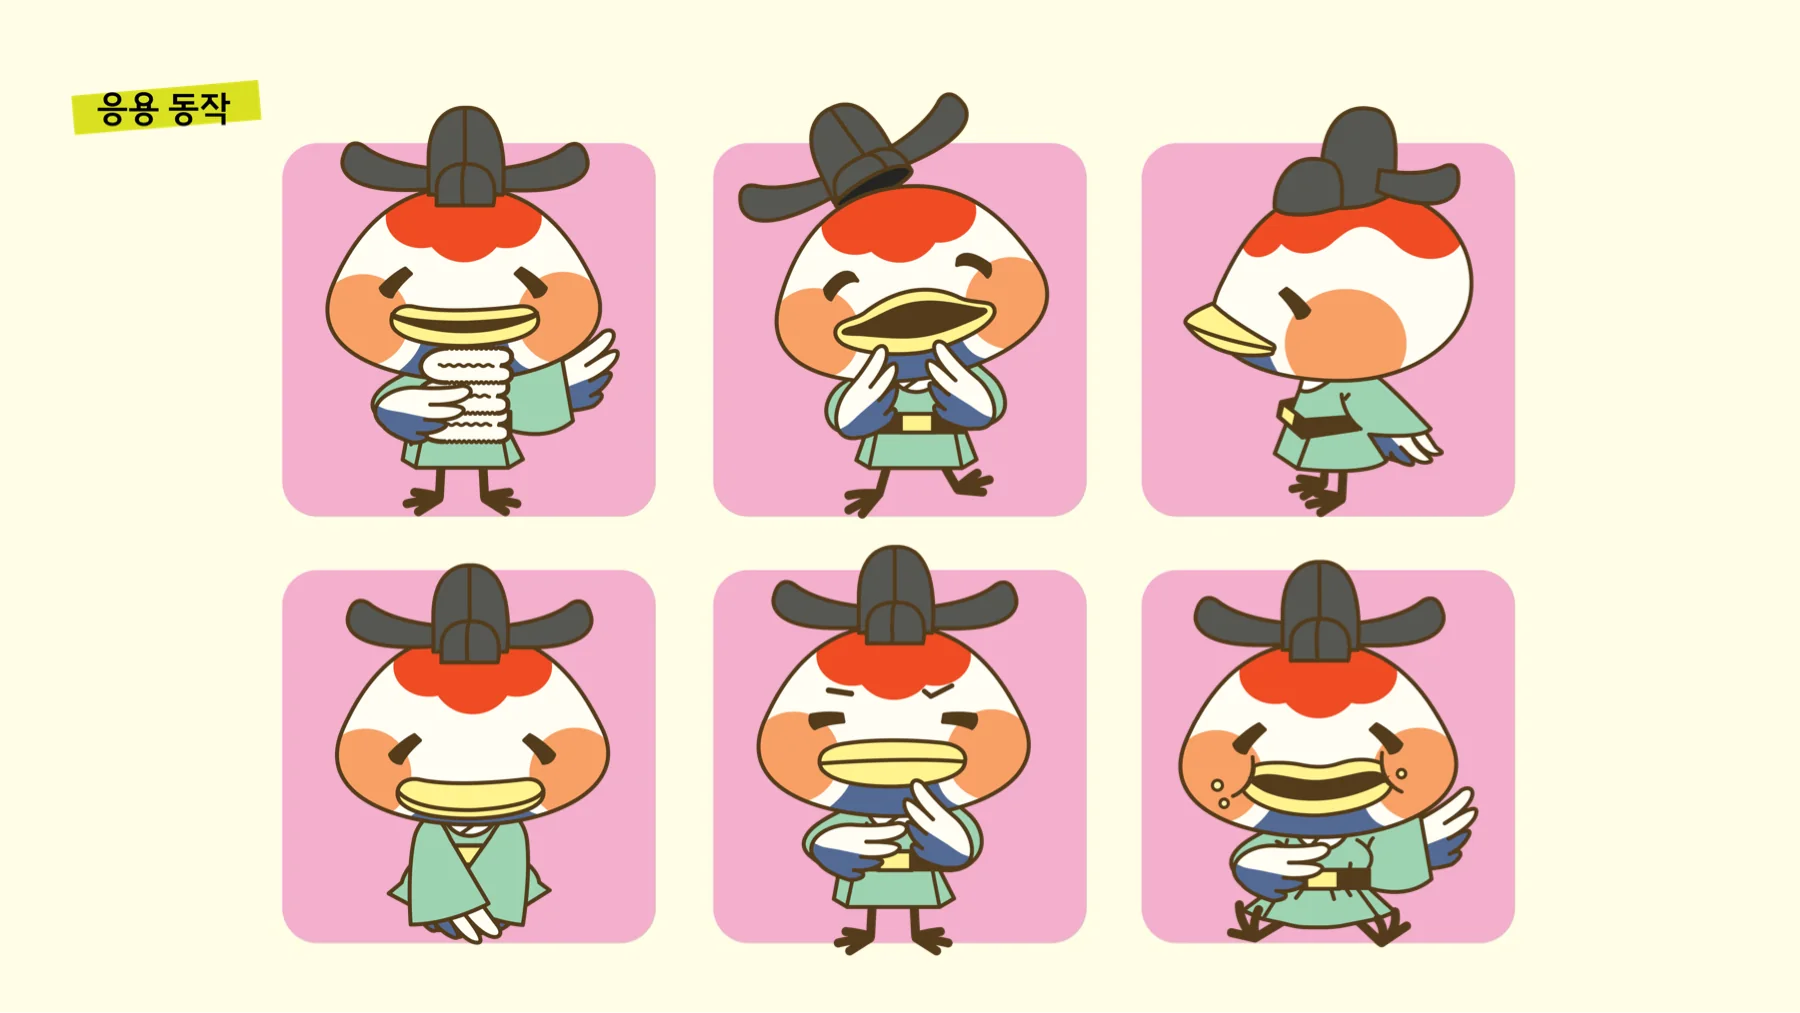
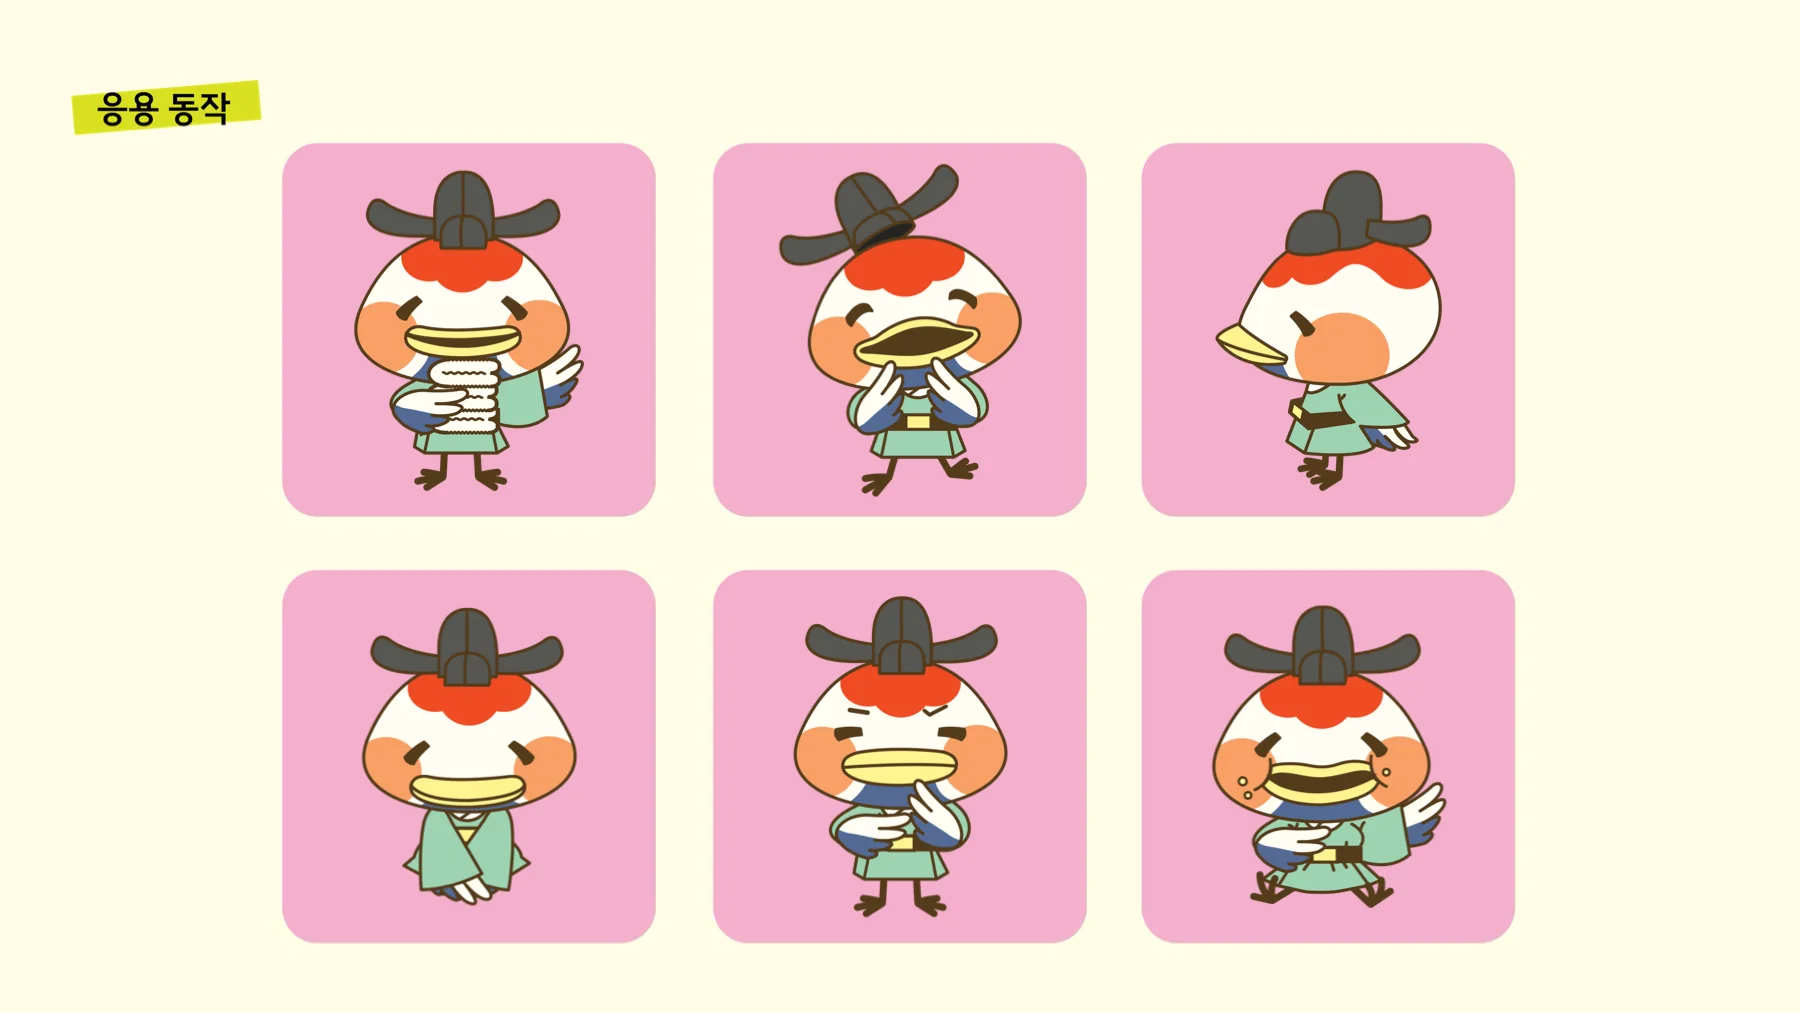
응용 동작 캐릭터를 타일 안에 맞춤, 캐릭터 전환 시 맨 위로 바로 이동(만화 등장 효과 유지)

diff --git a/index.html b/index.html
@@ -372,7 +372,7 @@
 </button>
 
 <script>
-const IMG = {"L1": "img/L1.webp", "L10": "img/L10.webp", "L11": "img/L11.webp", "L12": "img/L12.webp", "L13": "img/L13.webp", "L14": "img/L14.webp", "L15": "img/L15.webp", "L16": "img/L16.webp", "L17": "img/L17.webp", "L18": "img/L18.webp", "L19": "img/L19.webp", "L2": "img/L2.webp", "L20": "img/L20.webp", "L21": "img/L21.webp", "L22": "img/L22.webp", "L23": "img/L23.webp", "L24": "img/L24.webp", "L25": "img/L25.webp", "L26": "img/L26.webp", "L27": "img/L27.webp", "L28": "img/L28.webp", "L29": "img/L29.webp", "L3": "img/L3.webp", "L30": "img/L30.webp", "L31": "img/L31.webp", "L32": "img/L32.webp", "L4": "img/L4.webp", "L5": "img/L5.webp", "L6": "img/L6.webp", "L7": "img/L7.webp", "L8": "img/L8.webp", "L9": "img/L9.webp", "blue/bg01": "img/blue/bg01.webp", "blue/bg03": "img/blue/bg03.webp", "blue/bg04": "img/blue/bg04.webp", "blue/bg06": "img/blue/bg06.webp", "blue/bg07": "img/blue/bg07.webp", "blue/bg08": "img/blue/bg08.webp", "blue/rel_blue": "img/blue/rel_blue.webp", "blue/rel_duck": "img/blue/rel_duck.webp", "blue/rel_lotus": "img/blue/rel_lotus.webp", "blue/rel_owl": "img/blue/rel_owl.webp", "blue/star": "img/blue/star.webp", "blue/turn_title": "img/blue/turn_title.webp", "blue/x1": "img/blue/x1.webp", "blue/x10": "img/blue/x10.webp", "blue/x11": "img/blue/x11.webp", "blue/x12_04": "img/blue/x12_04.webp", "blue/x12_06": "img/blue/x12_06.webp", "blue/x12_07": "img/blue/x12_07.webp", "blue/x14": "img/blue/x14.webp", "blue/x16": "img/blue/x16.webp", "blue/x17": "img/blue/x17.webp", "blue/x19": "img/blue/x19.webp", "blue/x2": "img/blue/x2.webp", "blue/x20": "img/blue/x20.webp", "blue/x3": "img/blue/x3.webp", "blue/x4": "img/blue/x4.webp", "blue/x5_04": "img/blue/x5_04.webp", "blue/x5_05": "img/blue/x5_05.webp", "blue/x5_06": "img/blue/x5_06.webp", "blue/x5_08": "img/blue/x5_08.webp", "blue/x6": "img/blue/x6.webp", "blue/x7": "img/blue/x7.webp", "blue/x8": "img/blue/x8.webp", "blue/x8b": "img/blue/x8b.webp", "blue/x9": "img/blue/x9.webp", "comic/blue_1": "img/comic/blue_1.webp", "comic/blue_2": "img/comic/blue_2.webp", "comic/blue_3": "img/comic/blue_3.webp", "comic/blue_4": "img/comic/blue_4.webp", "comic/blue_5": "img/comic/blue_5.webp", "comic/blue_6": "img/comic/blue_6.webp", "comic/duck_1": "img/comic/duck_1.webp", "comic/duck_2": "img/comic/duck_2.webp", "comic/duck_3": "img/comic/duck_3.webp", "comic/duck_4": "img/comic/duck_4.webp", "comic/duck_5": "img/comic/duck_5.webp", "comic/duck_6": "img/comic/duck_6.webp", "comic/lotus_1": "img/comic/lotus_1.webp", "comic/lotus_2": "img/comic/lotus_2.webp", "comic/lotus_3": "img/comic/lotus_3.webp", "comic/lotus_4": "img/comic/lotus_4.webp", "comic/lotus_5": "img/comic/lotus_5.webp", "comic/lotus_6": "img/comic/lotus_6.webp", "comic/owl_1": "img/comic/owl_1.webp", "comic/owl_2": "img/comic/owl_2.webp", "comic/owl_3": "img/comic/owl_3.webp", "comic/owl_4": "img/comic/owl_4.webp", "comic/owl_5": "img/comic/owl_5.webp", "comic/owl_6": "img/comic/owl_6.webp", "duck/big": "img/duck/big.webp", "duck/x10": "img/duck/x10.webp", "duck/x11": "img/duck/x11.webp", "duck/x12": "img/duck/x12.webp", "duck/x15": "img/duck/x15.webp", "duck/x16": "img/duck/x16.webp", "duck/x17": "img/duck/x17.webp", "duck/x18": "img/duck/x18.webp", "duck/x19": "img/duck/x19.webp", "duck/x1_02": "img/duck/x1_02.webp", "duck/x20": "img/duck/x20.webp", "duck/x21": "img/duck/x21.webp", "duck/x23_01": "img/duck/x23_01.webp", "duck/x23_03": "img/duck/x23_03.webp", "duck/x23_04": "img/duck/x23_04.webp", "duck/x28": "img/duck/x28.webp", "duck/x2_02": "img/duck/x2_02.webp", "duck/x4": "img/duck/x4.webp", "duck/x6": "img/duck/x6.webp", "duck/x7": "img/duck/x7.webp", "duck/x9": "img/duck/x9.webp", "duck/xp": "img/duck/xp.webp", "lotus/big": "img/lotus/big.webp", "lotus/x1": "img/lotus/x1.webp", "lotus/x10": "img/lotus/x10.webp", "lotus/x11": "img/lotus/x11.webp", "lotus/x117": "img/lotus/x117.webp", "lotus/x12": "img/lotus/x12.webp", "lotus/x13": "img/lotus/x13.webp", "lotus/x14": "img/lotus/x14.webp", "lotus/x15": "img/lotus/x15.webp", "lotus/x16": "img/lotus/x16.webp", "lotus/x2": "img/lotus/x2.webp", "lotus/x25": "img/lotus/x25.webp", "lotus/x3": "img/lotus/x3.webp", "lotus/x4": "img/lotus/x4.webp", "lotus/x5": "img/lotus/x5.webp", "lotus/x6": "img/lotus/x6.webp", "lotus/x7_01": "img/lotus/x7_01.webp", "lotus/x7_03": "img/lotus/x7_03.webp", "lotus/x7_04": "img/lotus/x7_04.webp", "lotus/x8": "img/lotus/x8.webp", "lotus/xp": "img/lotus/xp.webp", "lotus/xp_copy": "img/lotus/xp_copy.webp", "map/bg_a": "img/map/bg_a.webp", "map/bg_b": "img/map/bg_b.webp", "map/bg_c": "img/map/bg_c.webp", "map/btn_12": "img/map/btn_12.webp", "map/btn_stamp": "img/map/btn_stamp.webp", "map/bubble/bonggoksa": "img/map/bubble/bonggoksa.webp", "map/bubble/bonggoksa_up": "img/map/bubble/bonggoksa_up.webp", "map/bubble/flower": "img/map/bubble/flower.webp", "map/bubble/gokgyo": "img/map/bubble/gokgyo.webp", "map/bubble/gongseri": "img/map/bubble/gongseri.webp", "map/bubble/hyeonchungsa": "img/map/bubble/hyeonchungsa.webp", "map/bubble/jijunghae": "img/map/bubble/jijunghae.webp", "map/bubble/museum": "img/map/bubble/museum.webp", "map/bubble/oeam": "img/map/bubble/oeam.webp", "map/bubble/oeam_up": "img/map/bubble/oeam_up.webp", "map/bubble/pinnacle": "img/map/bubble/pinnacle.webp", "map/bubble/sinjeongho": "img/map/bubble/sinjeongho.webp", "map/bubble/spa": "img/map/bubble/spa.webp", "map/bubble/yeonginsan": "img/map/bubble/yeonginsan.webp", "map/card_12": "img/map/card_12.webp", "map/card_stamp": "img/map/card_stamp.webp", "map/cloud": "img/map/cloud.webp", "map/f15": "img/map/f15.webp", "map/f16": "img/map/f16.webp", "map/f17": "img/map/f17.webp", "map/f18": "img/map/f18.webp", "map/line": "img/map/line.webp", "map/map": "img/map/map.webp", "map/p_bonggoksa": "img/map/p_bonggoksa.webp", "map/p_dogo": "img/map/p_dogo.webp", "map/p_flower": "img/map/p_flower.webp", "map/p_gokgyo": "img/map/p_gokgyo.webp", "map/p_gongseri": "img/map/p_gongseri.webp", "map/p_hyeonchungsa": "img/map/p_hyeonchungsa.webp", "map/p_jijunghae": "img/map/p_jijunghae.webp", "map/p_market": "img/map/p_market.webp", "map/p_museum": "img/map/p_museum.webp", "map/p_oeam": "img/map/p_oeam.webp", "map/p_onyang": "img/map/p_onyang.webp", "map/p_pinnacle": "img/map/p_pinnacle.webp", "map/p_sinjeongho": "img/map/p_sinjeongho.webp", "map/p_spavis": "img/map/p_spavis.webp", "map/p_yeonginsan": "img/map/p_yeonginsan.webp", "map/route": "img/map/route.webp", "owl/big": "img/owl/big.webp", "owl/x1": "img/owl/x1.webp", "owl/x10": "img/owl/x10.webp", "owl/x11": "img/owl/x11.webp", "owl/x13": "img/owl/x13.webp", "owl/x15": "img/owl/x15.webp", "owl/x16": "img/owl/x16.webp", "owl/x17": "img/owl/x17.webp", "owl/x18": "img/owl/x18.webp", "owl/x19_01": "img/owl/x19_01.webp", "owl/x19_03": "img/owl/x19_03.webp", "owl/x19_04": "img/owl/x19_04.webp", "owl/x28": "img/owl/x28.webp", "owl/x3": "img/owl/x3.webp", "owl/x4": "img/owl/x4.webp", "owl/x5": "img/owl/x5.webp", "owl/x6": "img/owl/x6.webp", "owl/x7": "img/owl/x7.webp", "owl/x8": "img/owl/x8.webp", "owl/x9": "img/owl/x9.webp", "owl/xp_copy": "img/owl/xp_copy.webp", "ui/scroll": "img/ui/scroll.webp", "m/blue_0_0": "img/m/blue_0_0.webp", "m/blue_1_1": "img/m/blue_1_1.webp", "m/blue_2_2": "img/m/blue_2_2.webp", "m/blue_3_3": "img/m/blue_3_3.webp", "m/blue_4_4": "img/m/blue_4_4.webp", "m/blue_5_5": "img/m/blue_5_5.webp", "m/blue_6_6": "img/m/blue_6_6.webp", "m/lotus_0_7": "img/m/lotus_0_7.webp", "m/lotus_1_8": "img/m/lotus_1_8.webp", "m/lotus_2_9": "img/m/lotus_2_9.webp", "m/lotus_3_10": "img/m/lotus_3_10.webp", "m/lotus_4_11": "img/m/lotus_4_11.webp", "m/lotus_5_12": "img/m/lotus_5_12.webp", "m/lotus_6_13": "img/m/lotus_6_13.webp", "m/duck_0_14": "img/m/duck_0_14.webp", "m/duck_1_15": "img/m/duck_1_15.webp", "m/duck_2_16": "img/m/duck_2_16.webp", "m/duck_3_17": "img/m/duck_3_17.webp", "m/duck_4_18": "img/m/duck_4_18.webp", "m/duck_5_19": "img/m/duck_5_19.webp", "m/duck_6_20": "img/m/duck_6_20.webp", "m/owl_0_21": "img/m/owl_0_21.webp", "m/owl_1_22": "img/m/owl_1_22.webp", "m/owl_2_23": "img/m/owl_2_23.webp", "m/owl_3_24": "img/m/owl_3_24.webp", "m/owl_4_25": "img/m/owl_4_25.webp", "m/owl_5_26": "img/m/owl_5_26.webp", "m/owl_6_27": "img/m/owl_6_27.webp", "font/jua-sub": "img/jua-sub.woff2"};
+const IMG = {"L1": "img/L1.webp", "L10": "img/L10.webp", "L11": "img/L11.webp", "L12": "img/L12.webp", "L13": "img/L13.webp", "L14": "img/L14.webp", "L15": "img/L15.webp", "L16": "img/L16.webp", "L17": "img/L17.webp", "L18": "img/L18.webp", "L19": "img/L19.webp", "L2": "img/L2.webp", "L20": "img/L20.webp", "L21": "img/L21.webp", "L22": "img/L22.webp", "L23": "img/L23.webp", "L24": "img/L24.webp", "L25": "img/L25.webp", "L26": "img/L26.webp", "L27": "img/L27.webp", "L28": "img/L28.webp", "L29": "img/L29.webp", "L3": "img/L3.webp", "L30": "img/L30.webp", "L31": "img/L31.webp", "L32": "img/L32.webp", "L4": "img/L4.webp", "L5": "img/L5.webp", "L6": "img/L6.webp", "L7": "img/L7.webp", "L8": "img/L8.webp", "L9": "img/L9.webp", "blue/bg01": "img/blue/bg01.webp", "blue/bg03": "img/blue/bg03.webp", "blue/bg04": "img/blue/bg04.webp", "blue/bg06": "img/blue/bg06.webp", "blue/bg07": "img/blue/bg07.webp", "blue/bg08": "img/blue/bg08.webp", "blue/mv_1": "img/blue/mv_1.webp", "blue/mv_2": "img/blue/mv_2.webp", "blue/mv_3": "img/blue/mv_3.webp", "blue/mv_4": "img/blue/mv_4.webp", "blue/mv_5": "img/blue/mv_5.webp", "blue/mv_6": "img/blue/mv_6.webp", "blue/rel_blue": "img/blue/rel_blue.webp", "blue/rel_duck": "img/blue/rel_duck.webp", "blue/rel_lotus": "img/blue/rel_lotus.webp", "blue/rel_owl": "img/blue/rel_owl.webp", "blue/star": "img/blue/star.webp", "blue/turn_title": "img/blue/turn_title.webp", "blue/x1": "img/blue/x1.webp", "blue/x10": "img/blue/x10.webp", "blue/x11": "img/blue/x11.webp", "blue/x12_04": "img/blue/x12_04.webp", "blue/x12_06": "img/blue/x12_06.webp", "blue/x12_07": "img/blue/x12_07.webp", "blue/x14": "img/blue/x14.webp", "blue/x16": "img/blue/x16.webp", "blue/x17": "img/blue/x17.webp", "blue/x19": "img/blue/x19.webp", "blue/x2": "img/blue/x2.webp", "blue/x20": "img/blue/x20.webp", "blue/x3": "img/blue/x3.webp", "blue/x4": "img/blue/x4.webp", "blue/x5_04": "img/blue/x5_04.webp", "blue/x5_05": "img/blue/x5_05.webp", "blue/x5_06": "img/blue/x5_06.webp", "blue/x5_08": "img/blue/x5_08.webp", "blue/x6": "img/blue/x6.webp", "blue/x7": "img/blue/x7.webp", "blue/x8": "img/blue/x8.webp", "blue/x8b": "img/blue/x8b.webp", "blue/x9": "img/blue/x9.webp", "comic/blue_1": "img/comic/blue_1.webp", "comic/blue_2": "img/comic/blue_2.webp", "comic/blue_3": "img/comic/blue_3.webp", "comic/blue_4": "img/comic/blue_4.webp", "comic/blue_5": "img/comic/blue_5.webp", "comic/blue_6": "img/comic/blue_6.webp", "comic/duck_1": "img/comic/duck_1.webp", "comic/duck_2": "img/comic/duck_2.webp", "comic/duck_3": "img/comic/duck_3.webp", "comic/duck_4": "img/comic/duck_4.webp", "comic/duck_5": "img/comic/duck_5.webp", "comic/duck_6": "img/comic/duck_6.webp", "comic/lotus_1": "img/comic/lotus_1.webp", "comic/lotus_2": "img/comic/lotus_2.webp", "comic/lotus_3": "img/comic/lotus_3.webp", "comic/lotus_4": "img/comic/lotus_4.webp", "comic/lotus_5": "img/comic/lotus_5.webp", "comic/lotus_6": "img/comic/lotus_6.webp", "comic/owl_1": "img/comic/owl_1.webp", "comic/owl_2": "img/comic/owl_2.webp", "comic/owl_3": "img/comic/owl_3.webp", "comic/owl_4": "img/comic/owl_4.webp", "comic/owl_5": "img/comic/owl_5.webp", "comic/owl_6": "img/comic/owl_6.webp", "duck/big": "img/duck/big.webp", "duck/mv_1": "img/duck/mv_1.webp", "duck/mv_2": "img/duck/mv_2.webp", "duck/mv_3": "img/duck/mv_3.webp", "duck/mv_4": "img/duck/mv_4.webp", "duck/mv_5": "img/duck/mv_5.webp", "duck/mv_6": "img/duck/mv_6.webp", "duck/x10": "img/duck/x10.webp", "duck/x11": "img/duck/x11.webp", "duck/x12": "img/duck/x12.webp", "duck/x15": "img/duck/x15.webp", "duck/x16": "img/duck/x16.webp", "duck/x17": "img/duck/x17.webp", "duck/x18": "img/duck/x18.webp", "duck/x19": "img/duck/x19.webp", "duck/x1_02": "img/duck/x1_02.webp", "duck/x20": "img/duck/x20.webp", "duck/x21": "img/duck/x21.webp", "duck/x23_01": "img/duck/x23_01.webp", "duck/x23_03": "img/duck/x23_03.webp", "duck/x23_04": "img/duck/x23_04.webp", "duck/x28": "img/duck/x28.webp", "duck/x2_02": "img/duck/x2_02.webp", "duck/x4": "img/duck/x4.webp", "duck/x6": "img/duck/x6.webp", "duck/x7": "img/duck/x7.webp", "duck/x9": "img/duck/x9.webp", "duck/xp": "img/duck/xp.webp", "lotus/big": "img/lotus/big.webp", "lotus/mv_1": "img/lotus/mv_1.webp", "lotus/mv_2": "img/lotus/mv_2.webp", "lotus/mv_3": "img/lotus/mv_3.webp", "lotus/mv_4": "img/lotus/mv_4.webp", "lotus/mv_5": "img/lotus/mv_5.webp", "lotus/mv_6": "img/lotus/mv_6.webp", "lotus/x1": "img/lotus/x1.webp", "lotus/x10": "img/lotus/x10.webp", "lotus/x11": "img/lotus/x11.webp", "lotus/x117": "img/lotus/x117.webp", "lotus/x12": "img/lotus/x12.webp", "lotus/x13": "img/lotus/x13.webp", "lotus/x14": "img/lotus/x14.webp", "lotus/x15": "img/lotus/x15.webp", "lotus/x16": "img/lotus/x16.webp", "lotus/x2": "img/lotus/x2.webp", "lotus/x25": "img/lotus/x25.webp", "lotus/x3": "img/lotus/x3.webp", "lotus/x4": "img/lotus/x4.webp", "lotus/x5": "img/lotus/x5.webp", "lotus/x6": "img/lotus/x6.webp", "lotus/x7_01": "img/lotus/x7_01.webp", "lotus/x7_03": "img/lotus/x7_03.webp", "lotus/x7_04": "img/lotus/x7_04.webp", "lotus/x8": "img/lotus/x8.webp", "lotus/xp": "img/lotus/xp.webp", "lotus/xp_copy": "img/lotus/xp_copy.webp", "map/bg_a": "img/map/bg_a.webp", "map/bg_b": "img/map/bg_b.webp", "map/bg_c": "img/map/bg_c.webp", "map/btn_12": "img/map/btn_12.webp", "map/btn_stamp": "img/map/btn_stamp.webp", "map/bubble/bonggoksa": "img/map/bubble/bonggoksa.webp", "map/bubble/bonggoksa_up": "img/map/bubble/bonggoksa_up.webp", "map/bubble/flower": "img/map/bubble/flower.webp", "map/bubble/gokgyo": "img/map/bubble/gokgyo.webp", "map/bubble/gongseri": "img/map/bubble/gongseri.webp", "map/bubble/hyeonchungsa": "img/map/bubble/hyeonchungsa.webp", "map/bubble/jijunghae": "img/map/bubble/jijunghae.webp", "map/bubble/museum": "img/map/bubble/museum.webp", "map/bubble/oeam": "img/map/bubble/oeam.webp", "map/bubble/oeam_up": "img/map/bubble/oeam_up.webp", "map/bubble/pinnacle": "img/map/bubble/pinnacle.webp", "map/bubble/sinjeongho": "img/map/bubble/sinjeongho.webp", "map/bubble/spa": "img/map/bubble/spa.webp", "map/bubble/yeonginsan": "img/map/bubble/yeonginsan.webp", "map/card_12": "img/map/card_12.webp", "map/card_stamp": "img/map/card_stamp.webp", "map/cloud": "img/map/cloud.webp", "map/f15": "img/map/f15.webp", "map/f16": "img/map/f16.webp", "map/f17": "img/map/f17.webp", "map/f18": "img/map/f18.webp", "map/line": "img/map/line.webp", "map/map": "img/map/map.webp", "map/p_bonggoksa": "img/map/p_bonggoksa.webp", "map/p_dogo": "img/map/p_dogo.webp", "map/p_flower": "img/map/p_flower.webp", "map/p_gokgyo": "img/map/p_gokgyo.webp", "map/p_gongseri": "img/map/p_gongseri.webp", "map/p_hyeonchungsa": "img/map/p_hyeonchungsa.webp", "map/p_jijunghae": "img/map/p_jijunghae.webp", "map/p_market": "img/map/p_market.webp", "map/p_museum": "img/map/p_museum.webp", "map/p_oeam": "img/map/p_oeam.webp", "map/p_onyang": "img/map/p_onyang.webp", "map/p_pinnacle": "img/map/p_pinnacle.webp", "map/p_sinjeongho": "img/map/p_sinjeongho.webp", "map/p_spavis": "img/map/p_spavis.webp", "map/p_yeonginsan": "img/map/p_yeonginsan.webp", "map/route": "img/map/route.webp", "owl/big": "img/owl/big.webp", "owl/mv_1": "img/owl/mv_1.webp", "owl/mv_2": "img/owl/mv_2.webp", "owl/mv_3": "img/owl/mv_3.webp", "owl/mv_4": "img/owl/mv_4.webp", "owl/mv_5": "img/owl/mv_5.webp", "owl/mv_6": "img/owl/mv_6.webp", "owl/x1": "img/owl/x1.webp", "owl/x10": "img/owl/x10.webp", "owl/x11": "img/owl/x11.webp", "owl/x13": "img/owl/x13.webp", "owl/x15": "img/owl/x15.webp", "owl/x16": "img/owl/x16.webp", "owl/x17": "img/owl/x17.webp", "owl/x18": "img/owl/x18.webp", "owl/x19_01": "img/owl/x19_01.webp", "owl/x19_03": "img/owl/x19_03.webp", "owl/x19_04": "img/owl/x19_04.webp", "owl/x28": "img/owl/x28.webp", "owl/x3": "img/owl/x3.webp", "owl/x4": "img/owl/x4.webp", "owl/x5": "img/owl/x5.webp", "owl/x6": "img/owl/x6.webp", "owl/x7": "img/owl/x7.webp", "owl/x8": "img/owl/x8.webp", "owl/x9": "img/owl/x9.webp", "owl/xp_copy": "img/owl/xp_copy.webp", "ui/scroll": "img/ui/scroll.webp", "m/blue_0_0": "img/m/blue_0_0.webp", "m/blue_1_1": "img/m/blue_1_1.webp", "m/blue_2_2": "img/m/blue_2_2.webp", "m/blue_3_3": "img/m/blue_3_3.webp", "m/blue_4_4": "img/m/blue_4_4.webp", "m/blue_5_5": "img/m/blue_5_5.webp", "m/blue_6_6": "img/m/blue_6_6.webp", "m/lotus_0_7": "img/m/lotus_0_7.webp", "m/lotus_1_8": "img/m/lotus_1_8.webp", "m/lotus_2_9": "img/m/lotus_2_9.webp", "m/lotus_3_10": "img/m/lotus_3_10.webp", "m/lotus_4_11": "img/m/lotus_4_11.webp", "m/lotus_5_12": "img/m/lotus_5_12.webp", "m/lotus_6_13": "img/m/lotus_6_13.webp", "m/duck_0_14": "img/m/duck_0_14.webp", "m/duck_1_15": "img/m/duck_1_15.webp", "m/duck_2_16": "img/m/duck_2_16.webp", "m/duck_3_17": "img/m/duck_3_17.webp", "m/duck_4_18": "img/m/duck_4_18.webp", "m/duck_5_19": "img/m/duck_5_19.webp", "m/duck_6_20": "img/m/duck_6_20.webp", "m/owl_0_21": "img/m/owl_0_21.webp", "m/owl_1_22": "img/m/owl_1_22.webp", "m/owl_2_23": "img/m/owl_2_23.webp", "m/owl_3_24": "img/m/owl_3_24.webp", "m/owl_4_25": "img/m/owl_4_25.webp", "m/owl_5_26": "img/m/owl_5_26.webp", "m/owl_6_27": "img/m/owl_6_27.webp", "font/jua-sub": "img/jua-sub.woff2"};
 // 웹 버전에서 휴대폰·태블릿이면 더 작은 이미지(img-m/)를 씀 — 메모리 절약
 if (matchMedia('(pointer: coarse)').matches) for (const k in IMG) if (/^img\/.*\.webp$/.test(IMG[k])) IMG[k] = IMG[k].replace(/^img\//, 'img-m/');
 const PAGES = {
@@ -574,10 +574,45 @@ const PAGES = {
     "cls": "bg"
    },
    {
-    "src": "blue/x12_04",
-    "x": 296,
-    "y": 123,
-    "w": 1400,
+    "src": "blue/mv_1",
+    "x": 340.6,
+    "y": 191.7,
+    "w": 362.1,
+    "cls": "grid"
+   },
+   {
+    "src": "blue/mv_2",
+    "x": 844.4,
+    "y": 179.2,
+    "w": 312.8,
+    "cls": "grid"
+   },
+   {
+    "src": "blue/mv_3",
+    "x": 1299.4,
+    "y": 189.3,
+    "w": 352.8,
+    "cls": "grid"
+   },
+   {
+    "src": "blue/mv_4",
+    "x": 348.3,
+    "y": 673.1,
+    "w": 345.1,
+    "cls": "grid"
+   },
+   {
+    "src": "blue/mv_5",
+    "x": 827.5,
+    "y": 664.6,
+    "w": 346.7,
+    "cls": "grid"
+   },
+   {
+    "src": "blue/mv_6",
+    "x": 1313.4,
+    "y": 660.6,
+    "w": 324.9,
     "cls": "grid"
    },
    {
@@ -901,10 +936,45 @@ const PAGES = {
     "cls": "bg"
    },
    {
-    "src": "lotus/x15",
-    "x": 333,
-    "y": 163,
-    "w": 1346,
+    "src": "lotus/mv_1",
+    "x": 352.5,
+    "y": 195.2,
+    "w": 336.6,
+    "cls": "grid"
+   },
+   {
+    "src": "lotus/mv_2",
+    "x": 820.0,
+    "y": 179.2,
+    "w": 361.6,
+    "cls": "grid"
+   },
+   {
+    "src": "lotus/mv_3",
+    "x": 1305.7,
+    "y": 193.5,
+    "w": 340.2,
+    "cls": "grid"
+   },
+   {
+    "src": "lotus/mv_4",
+    "x": 342.7,
+    "y": 669.0,
+    "w": 356.2,
+    "cls": "grid"
+   },
+   {
+    "src": "lotus/mv_5",
+    "x": 831.2,
+    "y": 664.0,
+    "w": 339.3,
+    "cls": "grid"
+   },
+   {
+    "src": "lotus/mv_6",
+    "x": 1291.2,
+    "y": 679.2,
+    "w": 369.2,
     "cls": "grid"
    },
    {
@@ -1228,10 +1298,45 @@ const PAGES = {
     "cls": "bg"
    },
    {
-    "src": "duck/x21",
-    "x": 360,
-    "y": 101,
-    "w": 1284,
+    "src": "duck/mv_1",
+    "x": 392.3,
+    "y": 187.4,
+    "w": 258.6,
+    "cls": "grid"
+   },
+   {
+    "src": "duck/mv_2",
+    "x": 864.1,
+    "y": 180.8,
+    "w": 273.5,
+    "cls": "grid"
+   },
+   {
+    "src": "duck/mv_3",
+    "x": 1348.9,
+    "y": 187.4,
+    "w": 255.5,
+    "cls": "grid"
+   },
+   {
+    "src": "duck/mv_4",
+    "x": 400.6,
+    "y": 673.2,
+    "w": 242.2,
+    "cls": "grid"
+   },
+   {
+    "src": "duck/mv_5",
+    "x": 879.7,
+    "y": 661.1,
+    "w": 242.2,
+    "cls": "grid"
+   },
+   {
+    "src": "duck/mv_6",
+    "x": 1345.0,
+    "y": 670.5,
+    "w": 263.3,
     "cls": "grid"
    },
    {
@@ -1564,10 +1669,45 @@ const PAGES = {
     "cls": "bg"
    },
    {
-    "src": "owl/x16",
-    "x": 312,
-    "y": 181,
-    "w": 1392,
+    "src": "owl/mv_1",
+    "x": 334.3,
+    "y": 218.0,
+    "w": 373.1,
+    "cls": "grid"
+   },
+   {
+    "src": "owl/mv_2",
+    "x": 818.5,
+    "y": 215.9,
+    "w": 363.1,
+    "cls": "grid"
+   },
+   {
+    "src": "owl/mv_3",
+    "x": 1289.1,
+    "y": 214.3,
+    "w": 373.5,
+    "cls": "grid"
+   },
+   {
+    "src": "owl/mv_4",
+    "x": 365.9,
+    "y": 689.3,
+    "w": 309.8,
+    "cls": "grid"
+   },
+   {
+    "src": "owl/mv_5",
+    "x": 838.4,
+    "y": 684.7,
+    "w": 323.1,
+    "cls": "grid"
+   },
+   {
+    "src": "owl/mv_6",
+    "x": 1299.3,
+    "y": 694.3,
+    "w": 353.1,
     "cls": "grid"
    },
    {
@@ -1938,7 +2078,8 @@ function render() {
   if (ready) Promise.race([ready, new Promise(r => setTimeout(r, 1500))]).then(show);
   else show();
   if (v === 'map') document.querySelectorAll('.cnav .mini').forEach(b => b.classList.remove('me'));
-  if (v !== 'main') { views[v].scrollTop = 0; views[v].querySelector('.topbar')?.classList.remove('scrolled'); setHover(null); }
+  // 맨 위로 '순간' 이동 (부드럽게 스크롤하면 아래 장들을 지나가면서 등장 효과가 미리 재생돼 버림)
+  if (v !== 'main') { views[v].scrollTo({ top: 0, behavior: 'instant' }); views[v].querySelector('.topbar')?.classList.remove('scrolled'); setHover(null); }
   if (v === 'char') requestAnimationFrame(fitSlides);
   if (v === 'map') { setMode('a'); fitMap(); }
 }
